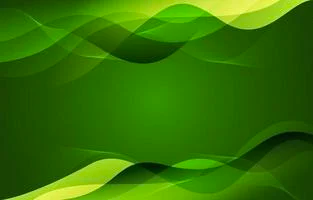
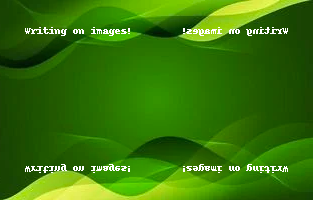
saumya

diff --git a/templates/saumyargb.html b/templates/saumyargb.html
@@ -1,0 +1,118 @@
+<!DOCTYPE html>
+{% extends "layouts/base.html" %}
+
+{% block background %}
+{% endblock %}
+
+{% block body %}
+
+    <script>
+        var imageColor = 0; // 0 is color, 1 is gray
+        var grayscale = {{ grayed|safe }};  // passes in base64 urls in a list into javascript via jinja
+        var colorscale = {{ colored|safe }};
+
+        function toggleColors(array) {  // toggles color of each image in the document
+            for (var i = 1; i <= array.length; i++) {
+                let id = "img" + i; // for each image in the array, set the source (href) to the base64 version
+                setImg(id, array[i-1]);
+            }
+        }
+
+        function toggle() {  // calls toggleColors based on what the current color is
+            if (imageColor == 0) {
+                toggleColors(grayscale);
+                imageColor = 1;
+            } else {
+                toggleColors(colorscale);
+                imageColor = 0;
+            }
+        }
+
+        function setImg(img, base64) {
+            // add button and rotate image from original to gray and back (toggle)
+            document.getElementById(img).src = base64;  //change img src to inner html on <p> tag
+        }
+
+        // Hack: add java script function to toggle image from original to gray and back (toggle)
+        //  document.getElementById("img<n>").src
+        //  document.getElementID("img_gray<n>").innerHTML
+        //  help: https://www.geeksforgeeks.org/how-to-change-the-src-attribute-of-an-img-element-in-javascript-jquery/
+    </script>
+
+
+    <title>RGB starter</title>
+
+    <h1 class="text-center"> Saumya's RGB values </h1>
+    <div class="container"></div>
+    <div class="row justify-content-md-center" style="text-align: center; width: 50%">
+        <div class="col align-self-start">
+            <button onclick="toggle()">Toggle Colors</button>
+        </div>
+    </div>
+
+    <div class="container">
+        <div class="row justify-content-md-center">
+            <table class="table">
+                <thead>
+                <tr>
+                    <th>Meta Data</th>
+                    <th>Image</th>
+                    <th>Data</th>
+                </tr>
+                </thead>
+                <tbody>
+                {% for image in images %}
+                    <tr>
+                        <td>
+                            <div>{{image.file}}</div>
+                            <div>{{image.format}}</div>
+                            <div>{{image.size}}</div>
+                            <div>{{image.label}}</div>
+                            <div>{{image.source}}</div>
+                        </td>
+                        <td>
+                            <img class="img-responsive py-3" id=img{{loop.index}} alt="" width="256" height="Auto" src="{{image.base64}}" >
+                            <!-- Hack: create button (btn{{loop.index}} to  call java script function
+                               pass index to allow you to toggle images with hidden id's
+                               {{image.base64}}  original image
+                               {{image.base64_GRAY}}  gray scale image
+                            -->
+                            <p hidden id="img_orig{{loop.index}}">{{image.base64}}</p>
+                            <p hidden id="img_gray{{loop.index}}">{{image.base64_GRAY}}</p>
+                        </td>
+                        <td>
+                            <div class="overflow-auto" style="height: 256px">
+                                <table class="table">
+                                    <thead>
+                                    <tr>
+                                        <th>#</th>
+                                        <th>{{image.mode}}</th>
+                                        <th>Hex Code</th>
+                                        <th>Binary</th>
+                                    </tr>
+                                    </thead>
+                                    <tbody>
+                                    {% for row in image.data[:256+1] %}
+                                        <tr>
+                                            <td>{{loop.index}}</td>
+                                            <td>{{row}}</td>
+                                            <td>{{image.hex_array[loop.index - 1]}}</td>
+                                            <td>{{image.binary_array[loop.index - 1]}}
+                                        </tr>
+                                        {% if loop.index > 256 %}
+                                            <tr><td>...</td><td>truncated</td><td>...</td><td>...</td></tr>
+                                        {% endif %}
+                                    {% endfor %}
+                                    </tbody>
+                                </table>
+                            </div>
+                        </td>
+                    </tr>
+                {% endfor %}
+                </tbody>
+            </table>
+
+        </div>
+    </div>
+
+{% endblock %}

diff --git a/templates/saumya.html b/templates/saumya.html
@@ -41,6 +41,8 @@
     </head>
 
     <h1>Saumya</h1>
+    <p>Here is my RGB page:</p>
+    <a style="font-family: 'fangsong'; color: antiquewhite" href={{ url_for('saumyargb') }}>SaumyaRGB</a>
     <br />
 
     <div class="container">

diff --git a/algorithms/image.py b/algorithms/image.py
@@ -1,7 +1,7 @@
 import base64
 from io import BytesIO
 import numpy
-from PIL import Image, ImageDraw
+from PIL import Image, ImageDraw, ImageFilter
 import re
 
 
@@ -44,9 +44,9 @@ def rotatehack(path="static/assets/sonakshiimages/", img_list=None):
         img_dict['path'] = '/' + path  # path for HTML access (frontend)
         file = path + img_dict['file']  # file with path for local access (backend)
         # hack testing
-        img = Image.open(file)  # opens file to work
-        OriImage = img  # creates a copy of the file used
-        OriImage.transpose(Image.FLIP_LEFT_RIGHT)  # "draws" on the clean copy
+        img = Image.open(file)
+        clear = img.copy() # opens file to work
+        OriImage = clear.transpose(Image.ROTATE_90)
         OriImage.save(path + 'new' + img_dict['file'])  # saves clean copy as "new<file>.jpg"
     # appending to img_list so the images can load on the html
     img_list.clear()
@@ -148,6 +148,55 @@ def kashish_image_data(path="static/assets/kashishimages/", img_list=None):
             bin_value = bin(pixel[0])[2:].zfill(8) + " " + bin(pixel[1])[2:].zfill(8) + " " + bin(pixel[2])[2:].zfill(8)
             img_dict['binary_array'].append(bin_value)
         # create gray scale of image, ref: https://www.geeksforgeeks.org/convert-a-numpy-array-to-an-image/
+            img_dict['gray_data'] = []
+        for pixel in img_dict['data']:
+            average = (pixel[0] + pixel[1] + pixel[2]) // 3
+            if len(pixel) > 3:
+                img_dict['gray_data'].append((average, average, average, pixel[3]))
+            else:
+                img_dict['gray_data'].append((average, average, average))
+        img_reference.putdata(img_dict['gray_data'])
+        img_dict['base64_GRAY'] = image_formatter(img_reference, img_dict['format'])
+        # hack testing
+    return img_list  # list is returned with all the attributes for each image dictionary
+
+def saumya_image_data(path="static/assets/saumyaimages/", img_list=None):
+    if img_list is None:  # color_dict is defined with defaults
+        img_list = [
+            {'source': "Beach", 'label': "Beach", 'file': "beach.png"},
+            {'source': "City", 'label': "City", 'file': "city.png"},
+
+        ]
+    # gather analysis data and meta data for each image, adding attributes to each row in table
+    for img_dict in img_list:
+        img_dict['path'] = '/' + path  # path for HTML access (frontend)
+        file = path + img_dict['file']  # file with path for local access (backend)
+        # Python Image Library operations
+        img_reference = Image.open(file)  # PIL
+        # HERE is commit for adding text into images
+        draw = ImageDraw.Draw(img_reference)
+        draw.text((25, 25), "Writing on images!", fill=(500, 500, 500))  # draw in image
+        img_data = img_reference.getdata()  # Reference https://www.geeksforgeeks.org/python-pil-image-getdata/
+        img_dict['format'] = img_reference.format
+        img_dict['mode'] = img_reference.mode
+        img_dict['size'] = img_reference.size
+        # Conversion of original Image to Base64, a string format that serves HTML nicely
+        img_dict['base64'] = image_formatter(img_reference, img_dict['format'])
+        # Numpy is used to allow easy access to data of image, python list
+        img_dict['data'] = numpy.array(img_data)
+        img_dict['hex_array'] = []
+        img_dict['binary_array'] = []
+        img_dict['gray_data'] = []
+        # 'data' is a list of RGB data, the list is traversed and hex and binary lists are calculated and formatted
+        for pixel in img_dict['data']:
+            # hexadecimal conversions
+            hex_value = hex(pixel[0])[-2:] + hex(pixel[1])[-2:] + hex(pixel[2])[-2:]
+            hex_value = hex_value.replace("x", "0")
+            img_dict['hex_array'].append("#" + hex_value)
+            # binary conversions
+            bin_value = bin(pixel[0])[2:].zfill(8) + " " + bin(pixel[1])[2:].zfill(8) + " " + bin(pixel[2])[2:].zfill(8)
+            img_dict['binary_array'].append(bin_value)
+            # create gray scale of image, ref: https://www.geeksforgeeks.org/convert-a-numpy-array-to-an-image/
             img_dict['gray_data'] = []
         for pixel in img_dict['data']:
             average = (pixel[0] + pixel[1] + pixel[2]) // 3

diff --git a/main.py b/main.py
@@ -2,7 +2,7 @@
 from pathlib import Path
 
 from flask import Flask, render_template, request
-from algorithms.image import rotatehack, sonakshi_image_data, kashish_image_data
+from algorithms.image import rotatehack, sonakshi_image_data, kashish_image_data, saumya_image_data
 
 
 # create a Flask instance
@@ -123,6 +123,15 @@ def kashishrgb():
         grayList.append(img['base64_GRAY'])
     return render_template("kashishrgb.html", images=trash, colored=colorList, grayed=grayList )
 
+@app.route('/saumyargb/', methods=['GET', 'POST'])
+def saumyargb():
+    trash = saumya_image_data()
+    colorList = []
+    grayList = [] # pass in the lists from the image_data() function
+    for img in trash:
+        colorList.append(img['base64'])
+        grayList.append(img['base64_GRAY'])
+    return render_template("saumyargb.html", images=trash, colored=colorList, grayed=grayList )
 
 
 @app.route('/insights/')
